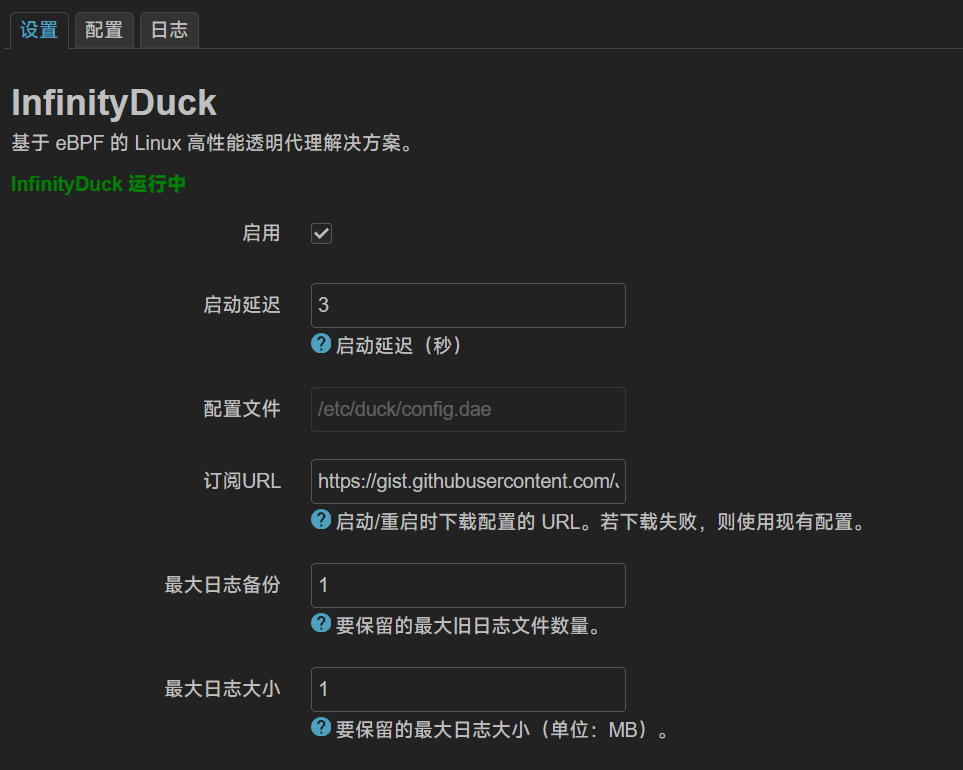
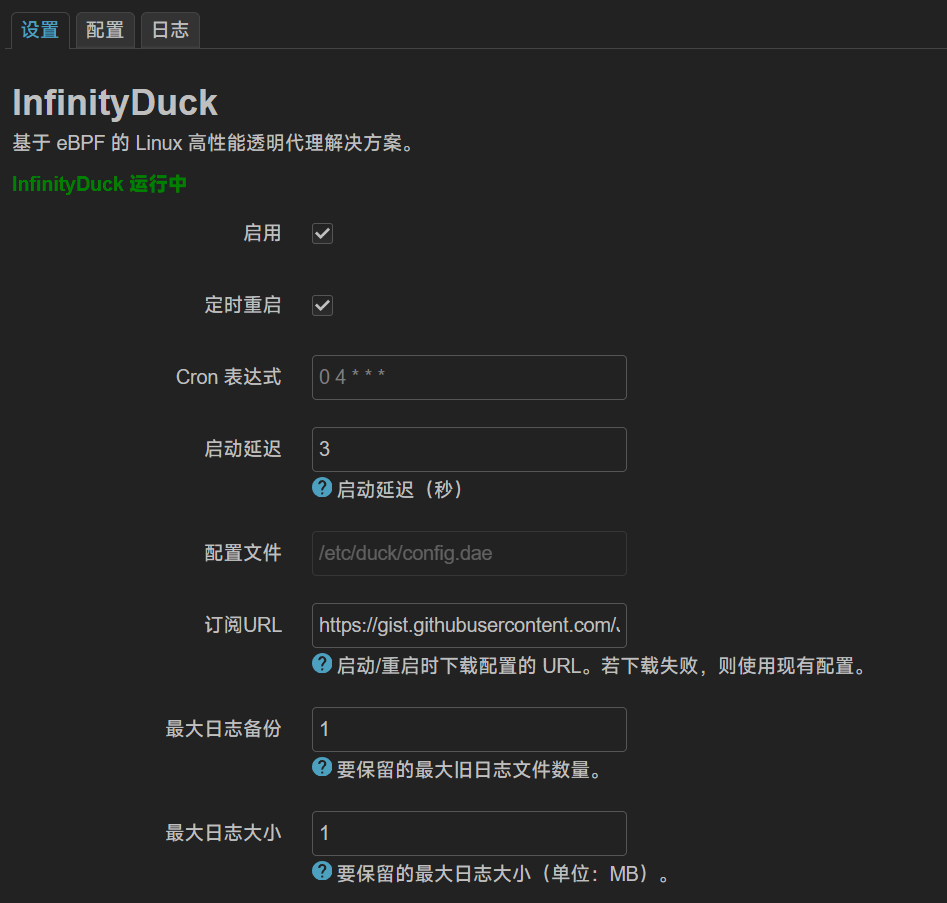
feat: add scheduled restart Signed-off-by: JohnsonRan <me@ihtw.moe>

diff --git a/luci-app-duck/htdocs/luci-static/resources/view/duck/settings.js b/luci-app-duck/htdocs/luci-static/resources/view/duck/settings.js
@@ -68,6 +68,14 @@ return view.extend({
 
 		o = s.option(form.Flag, 'enabled', _('Enable'));
 		
+		o = s.option(form.Flag, 'scheduled_restart', _('Scheduled Restart'));
+		o.rmempty = false;
+		
+		o = s.option(form.Value, 'cron_expression', _('Cron Expression'));
+		o.depends('scheduled_restart', '1');
+		o.placeholder = '0 4 * * *';
+		o.rmempty = true;
+		
 		o = s.option(form.Value, 'delay', _('Startup Delay'),
 			_('Startup delay in seconds.'));
 		o.datatype = 'uinteger';

diff --git a/README.md b/README.md
@@ -14,6 +14,7 @@ This project is based on [luci-app-dae](https://github.com/immortalwrt/luci/tree
 - Simple config file validation
 - Fetch config from remote
 - Startup deplay
+- Schedule restart
 
 ## Install
 1. Add feed
